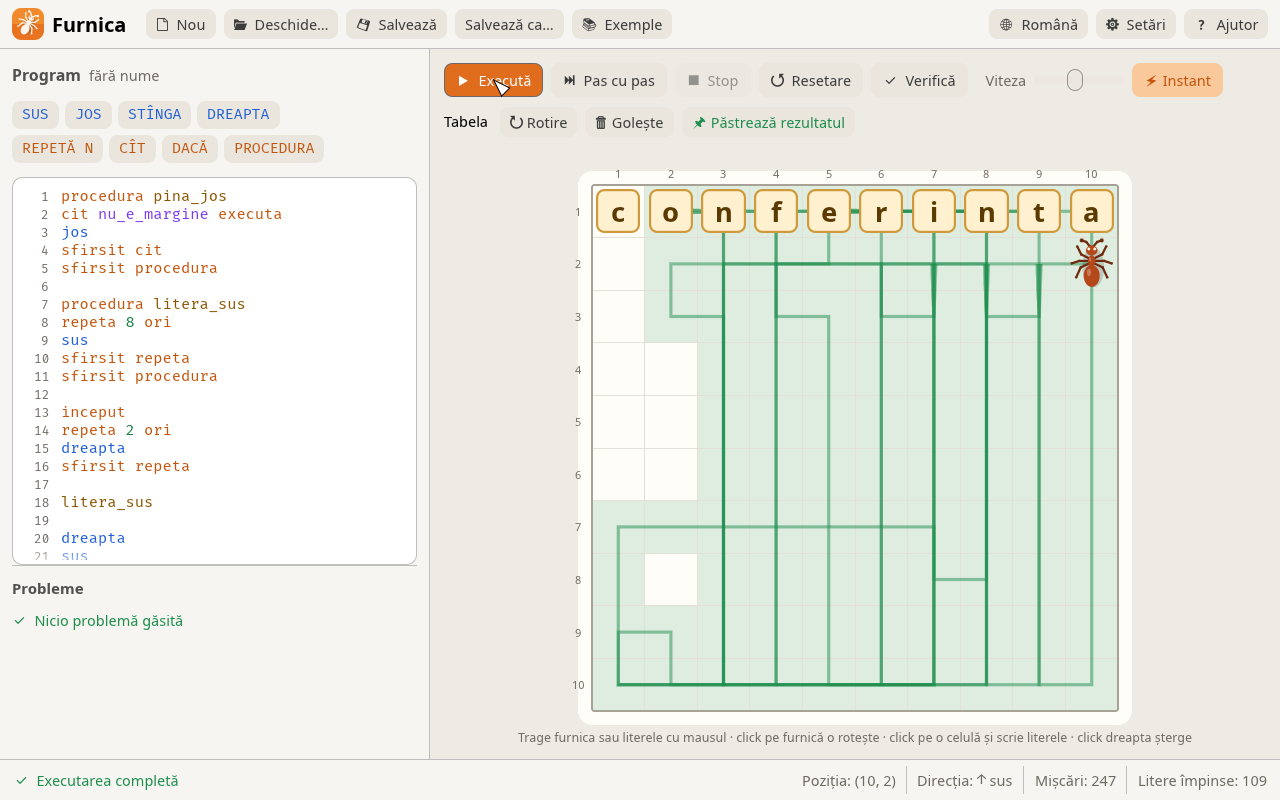
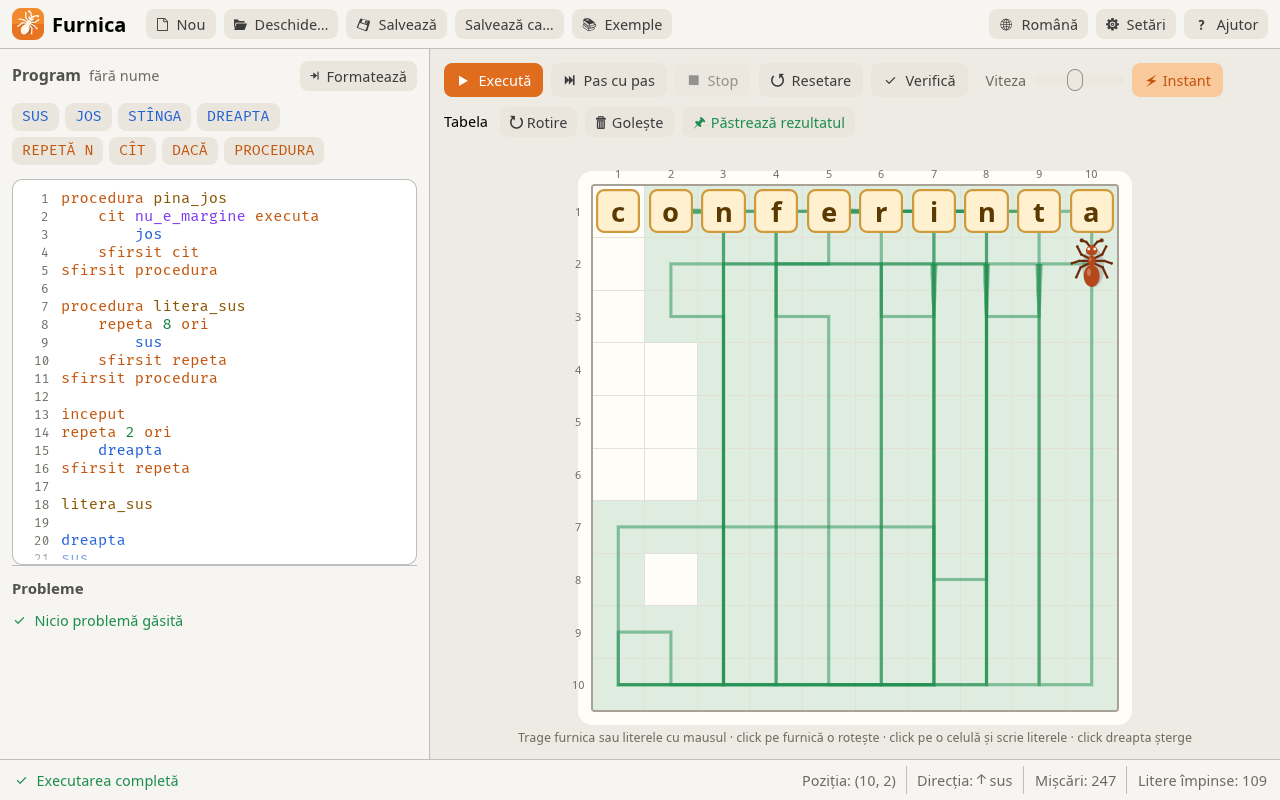
Capturile aplicației în română, engleză și rusă, generate de testul site_screenshots

diff --git a/src/app.rs b/src/app.rs
@@ -2729,6 +2729,128 @@ mod tests {
             shot(&mut h, "help-author");
         }
 
+        /// Programul unui exemplu cu cuvintele și procedurile în limba `lang`.
+        fn translate(src: &str, lang: Lang) -> String {
+            const WORDS: &[[&str; 3]] = &[
+                ["PROCEDURA", "procedure", "процедура"],
+                ["INCEPUT", "begin", "начало"],
+                ["SFIRSIT", "end", "конец"],
+                ["REPETA", "repeat", "повтори"],
+                ["ORI", "times", "раз"],
+                ["CIT", "while", "пока"],
+                ["EXECUTA", "do", "сделай"],
+                ["NU_E_MARGINE", "not_border", "не_край"],
+                ["SUS", "up", "вверх"],
+                ["JOS", "down", "вниз"],
+                ["STINGA", "left", "влево"],
+                ["DREAPTA", "right", "вправо"],
+                ["PINA_JOS", "to_bottom", "до_низа"],
+                ["LITERA_SUS", "letter_up", "букву_вверх"],
+            ];
+            let i = match lang {
+                Lang::Ro => return src.to_string(),
+                Lang::En => 1,
+                Lang::Ru => 2,
+            };
+            let mut out = String::new();
+            let mut word = String::new();
+            let flush = |word: &mut String, out: &mut String| {
+                let n = lang::normalize(word);
+                match WORDS.iter().find(|w| w[0] == n) {
+                    Some(w) => out.push_str(w[i]),
+                    None => out.push_str(word),
+                }
+                word.clear();
+            };
+            for c in src.chars() {
+                if c.is_alphanumeric() || c == '_' {
+                    word.push(c);
+                } else {
+                    flush(&mut word, &mut out);
+                    out.push(c);
+                }
+            }
+            flush(&mut word, &mut out);
+            out
+        }
+
+        /// Capturile pentru pagina web, în fiecare limbă:
+        /// `FURNICA_SHOTS=docs/assets cargo test --release site_screenshots`.
+        #[test]
+        fn site_screenshots() {
+            let cases = [
+                (
+                    Lang::Ro,
+                    "",
+                    "ÎNCEPUT\nSFÎRȘIT\n",
+                    "PROCEDURA PinaJos\nCÎT NU_E_MARGINE EXECUTĂ\n    JSO\nSFÎRȘIT CÎT\nSFÎRȘIT PROCEDURA\n\nÎNCEPUT\nDRAPTA\nPinaJso\nSFÎRȘIT\n",
+                ),
+                (
+                    Lang::En,
+                    "-en",
+                    "BEGIN\nEND\n",
+                    "PROCEDURE ToBottom\nWHILE NOT_BORDER DO\n    DOWM\nEND WHILE\nEND PROCEDURE\n\nBEGIN\nRIGTH\nToBotom\nEND\n",
+                ),
+                (
+                    Lang::Ru,
+                    "-ru",
+                    "НАЧАЛО\nКОНЕЦ\n",
+                    "ПРОЦЕДУРА ДоНиза\nПОКА НЕ_КРАЙ СДЕЛАЙ\n    ВНИЭ\nКОНЕЦ ПОКА\nКОНЕЦ ПРОЦЕДУРА\n\nНАЧАЛО\nВПРАВА\nДоНза\nКОНЕЦ\n",
+                ),
+            ];
+            for (lang, suffix, empty, bad) in cases {
+                // Exemplul original „conferinta”, executat.
+                let mut h = harness();
+                h.ctx.set_theme(ThemePreference::Light);
+                h.state_mut().s.lang = lang;
+                load(&mut h, 1);
+                let code = translate(&h.state().s.code, lang);
+                h.state_mut().s.code = code;
+                h.state_mut().s.instant = true;
+                h.run_steps(3);
+                h.state_mut().start(Mode::Running);
+                run_until_idle(&mut h);
+                assert!(matches!(h.state().status, Status::Finished), "{lang:?}");
+                assert_eq!(h.state().world.table.row(0).trim(), "conferinta");
+                shot(&mut h, &format!("screenshot{suffix}"));
+
+                // Analizorul: trei cuvinte scrise greșit și o procedură nefolosită.
+                let mut h = harness();
+                h.ctx.set_theme(ThemePreference::Light);
+                h.state_mut().s.lang = lang;
+                h.state_mut().set_file(antfile::AntFile {
+                    table: Table::default(),
+                    code: bad.into(),
+                });
+                h.run_steps(3);
+                let errs: Vec<usize> = h.state().analysis.errors.iter().map(|e| e.line).collect();
+                assert_eq!(errs, vec![3, 8, 9], "{lang:?}");
+                assert_eq!(h.state().analysis.warnings.len(), 1, "{lang:?}");
+                shot(&mut h, &format!("analizor{suffix}"));
+
+                // Literele scrise direct pe tabelă.
+                let mut h = harness();
+                h.ctx.set_theme(ThemePreference::Dark);
+                h.state_mut().s.lang = lang;
+                h.state_mut().set_file(antfile::AntFile {
+                    table: Table::default(),
+                    code: empty.into(),
+                });
+                h.run_steps(2);
+                let p = at(&h, (2, 3));
+                click(&mut h, p, egui::PointerButton::Primary);
+                h.event(egui::Event::Text("ABC".into()));
+                h.run_steps(1);
+                h.key_press(Key::Enter);
+                h.run_steps(1);
+                h.event(egui::Event::Text("DE".into()));
+                h.run_steps(2);
+                assert_eq!(h.state().s.table.row(3), "  ABC     ");
+                assert_eq!(h.state().s.table.row(4), "  DE      ");
+                shot(&mut h, &format!("editare{suffix}"));
+            }
+        }
+
         #[test]
         fn run_original_example_and_keep_result() {
             let mut h = harness();

diff --git a/README.ru.md b/README.ru.md
@@ -16,7 +16,7 @@
 [![Linux](https://img.shields.io/badge/Linux-AppImage-FCC624?style=flat-square&logo=linux&logoColor=black)](packaging/linux/)
 [![macOS](https://img.shields.io/badge/macOS-Apple%20Silicon%20%7C%20Intel-000000?style=flat-square&logo=apple&logoColor=white)](#macos)
 
-[**Быстрый старт**](#быстрый-старт) · [Язык](#язык) · [Анализатор кода](#анализатор-кода) · [Формат файлов](#формат-файлов) · [Изменения](CHANGELOG.ru.md) · [Releases](../../releases) · [Issues](../../issues)
+[**Сайт**](https://nazdravan.github.io/furnica/ru/) · [Быстрый старт](#быстрый-старт) · [Язык](#язык) · [Анализатор кода](#анализатор-кода) · [Формат файлов](#формат-файлов) · [Изменения](CHANGELOG.ru.md) · [Releases](../../releases) · [Issues](../../issues)
 
 [Română](README.md) · [English](README.en.md) · **Русский**
 
@@ -28,7 +28,7 @@
 которую используют в школах Молдовы и Румынии. Файлы `.ant` из старой версии
 открываются и выполняются без изменений.
 
-<img src="docs/assets/screenshot.png" alt="Furnica: пример «conferinta» после выполнения" />
+<img src="docs/assets/screenshot-ru.png" alt="Furnica: пример «conferinta» после выполнения" />
 
 ## Быстрый старт
 
@@ -96,7 +96,7 @@ OpenGL 2.0, чтобы программа работала и на старых 
 
 ### Редактирование таблицы
 
-<img src="docs/assets/editare.png" alt="Ввод букв на таблице" />
+<img src="docs/assets/editare-ru.png" alt="Ввод букв на таблице" />
 
 - **муравья** перемещают перетаскиванием (клетка назначения подсвечивается
   зелёным или красным), а щелчок по нему поворачивает его;
@@ -166,7 +166,7 @@ OpenGL 2.0, чтобы программа работала и на старых 
 
 ## Анализатор кода
 
-<img src="docs/assets/analizor.png" alt="Анализатор кода с ошибками и подсказками" />
+<img src="docs/assets/analizor-ru.png" alt="Анализатор кода с ошибками и подсказками" />
 
 Программа анализируется при каждом изменении (это можно выключить в
 *Настройках*; тогда анализ запускается кнопкой **Проверить** / F7). Анализатор

diff --git a/README.en.md b/README.en.md
@@ -16,7 +16,7 @@
 [![Linux](https://img.shields.io/badge/Linux-AppImage-FCC624?style=flat-square&logo=linux&logoColor=black)](packaging/linux/)
 [![macOS](https://img.shields.io/badge/macOS-Apple%20Silicon%20%7C%20Intel-000000?style=flat-square&logo=apple&logoColor=white)](#macos)
 
-[**Quick start**](#quick-start) · [The language](#the-language) · [Code analyzer](#code-analyzer) · [File format](#file-format) · [Changelog](CHANGELOG.en.md) · [Releases](../../releases) · [Issues](../../issues)
+[**Website**](https://nazdravan.github.io/furnica/en/) · [Quick start](#quick-start) · [The language](#the-language) · [Code analyzer](#code-analyzer) · [File format](#file-format) · [Changelog](CHANGELOG.en.md) · [Releases](../../releases) · [Issues](../../issues)
 
 [Română](README.md) · **English** · [Русский](README.ru.md)
 
@@ -28,7 +28,7 @@ A **Rust** rewrite of the original “Furnica” program (Ant v2.00, 1999), used
 in schools in Moldova and Romania. `.ant` files from the old version open and
 run unchanged. *Furnica* is Romanian for “ant”.
 
-<img src="docs/assets/screenshot.png" alt="Furnica: the “conferinta” example after running" />
+<img src="docs/assets/screenshot-en.png" alt="Furnica: the “conferinta” example after running" />
 
 ## Quick start
 
@@ -96,7 +96,7 @@ works on older school lab computers.
 
 ### Editing the table
 
-<img src="docs/assets/editare.png" alt="Typing letters on the table" />
+<img src="docs/assets/editare-en.png" alt="Typing letters on the table" />
 
 - **the ant** is moved by dragging (the target cell turns green or red), and a
   click on it turns it;
@@ -165,7 +165,7 @@ original program.
 
 ## Code analyzer
 
-<img src="docs/assets/analizor.png" alt="The code analyzer with errors and suggestions" />
+<img src="docs/assets/analizor-en.png" alt="The code analyzer with errors and suggestions" />
 
 The program is analyzed on every change (this can be turned off in
 *Settings*; then analysis runs with **Check** / F7). The analyzer doesn't stop
